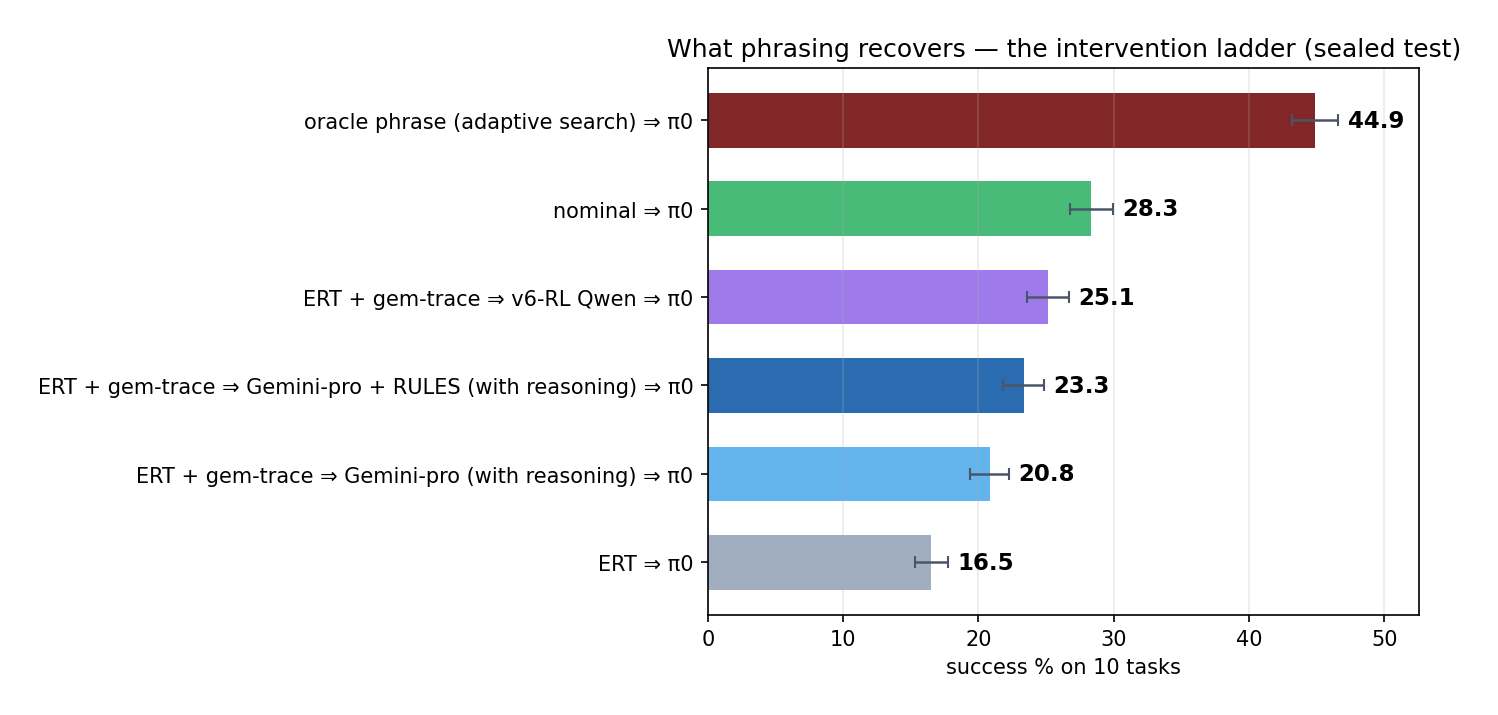
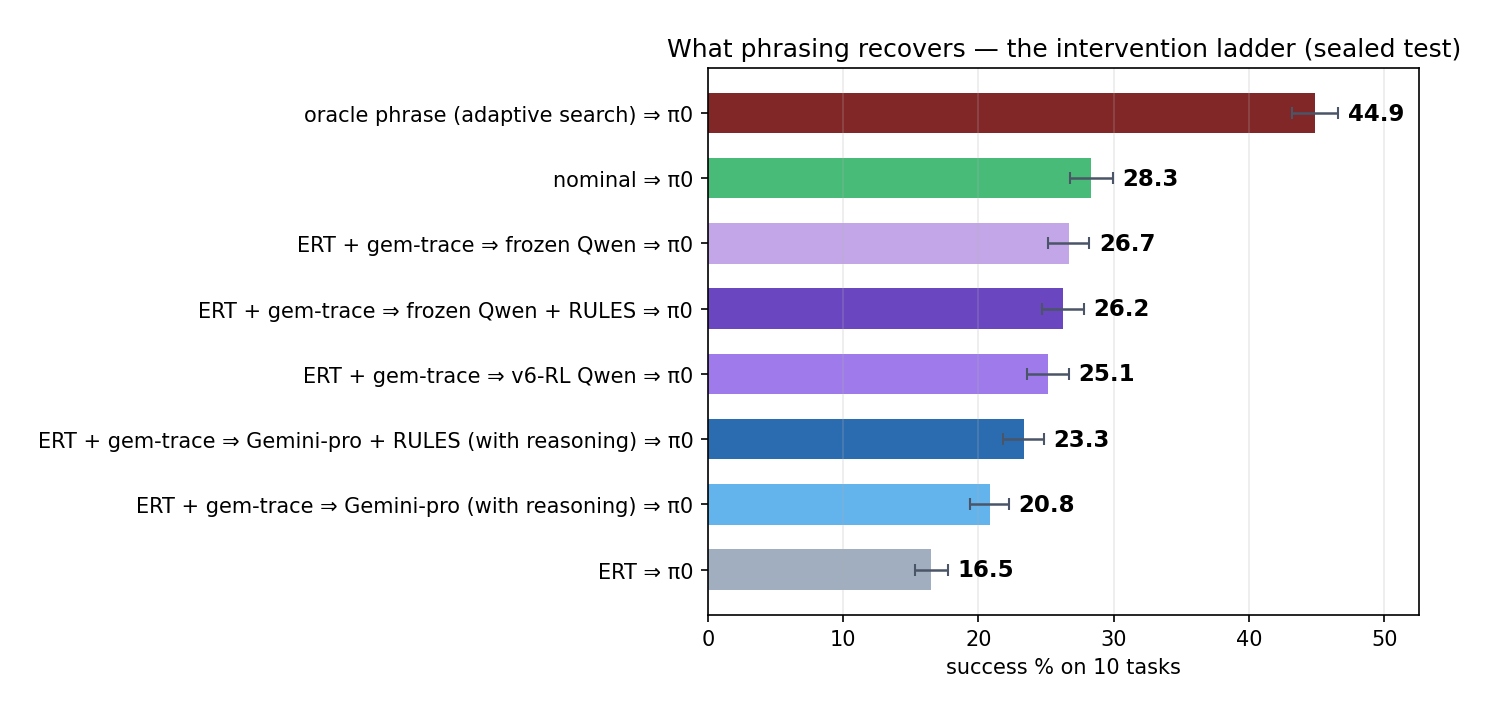
ladder: add frozen-Qwen pair rungs

diff --git a/scripts/make_phrasing_ladder.py b/scripts/make_phrasing_ladder.py
@@ -44,6 +44,8 @@ BARS = [
     ("ERT ⇒ π0", "passthrough", "#a0aec0"),
     ("ERT + gem-trace ⇒ Gemini-pro (with reasoning) ⇒ π0", "gemini_pro_bare", "#63b3ed"),
     ("ERT + gem-trace ⇒ v6-RL Qwen ⇒ π0", "v6_rl", "#9f7aea"),
+    ("ERT + gem-trace ⇒ frozen Qwen ⇒ π0", "frozen_gemini_trace", "#c3a6e8"),
+    ("ERT + gem-trace ⇒ frozen Qwen + RULES ⇒ π0", "rules_v3_gemini_trace", "#6b46c1"),
     ("ERT + gem-trace ⇒ Gemini-pro + RULES (with reasoning) ⇒ π0", "rules_v3_gemini_pro", "#2b6cb0"),
     ("nominal ⇒ π0", "originals", "#48bb78"),
     ("oracle phrase (adaptive search) ⇒ π0", None, "#822727"),
